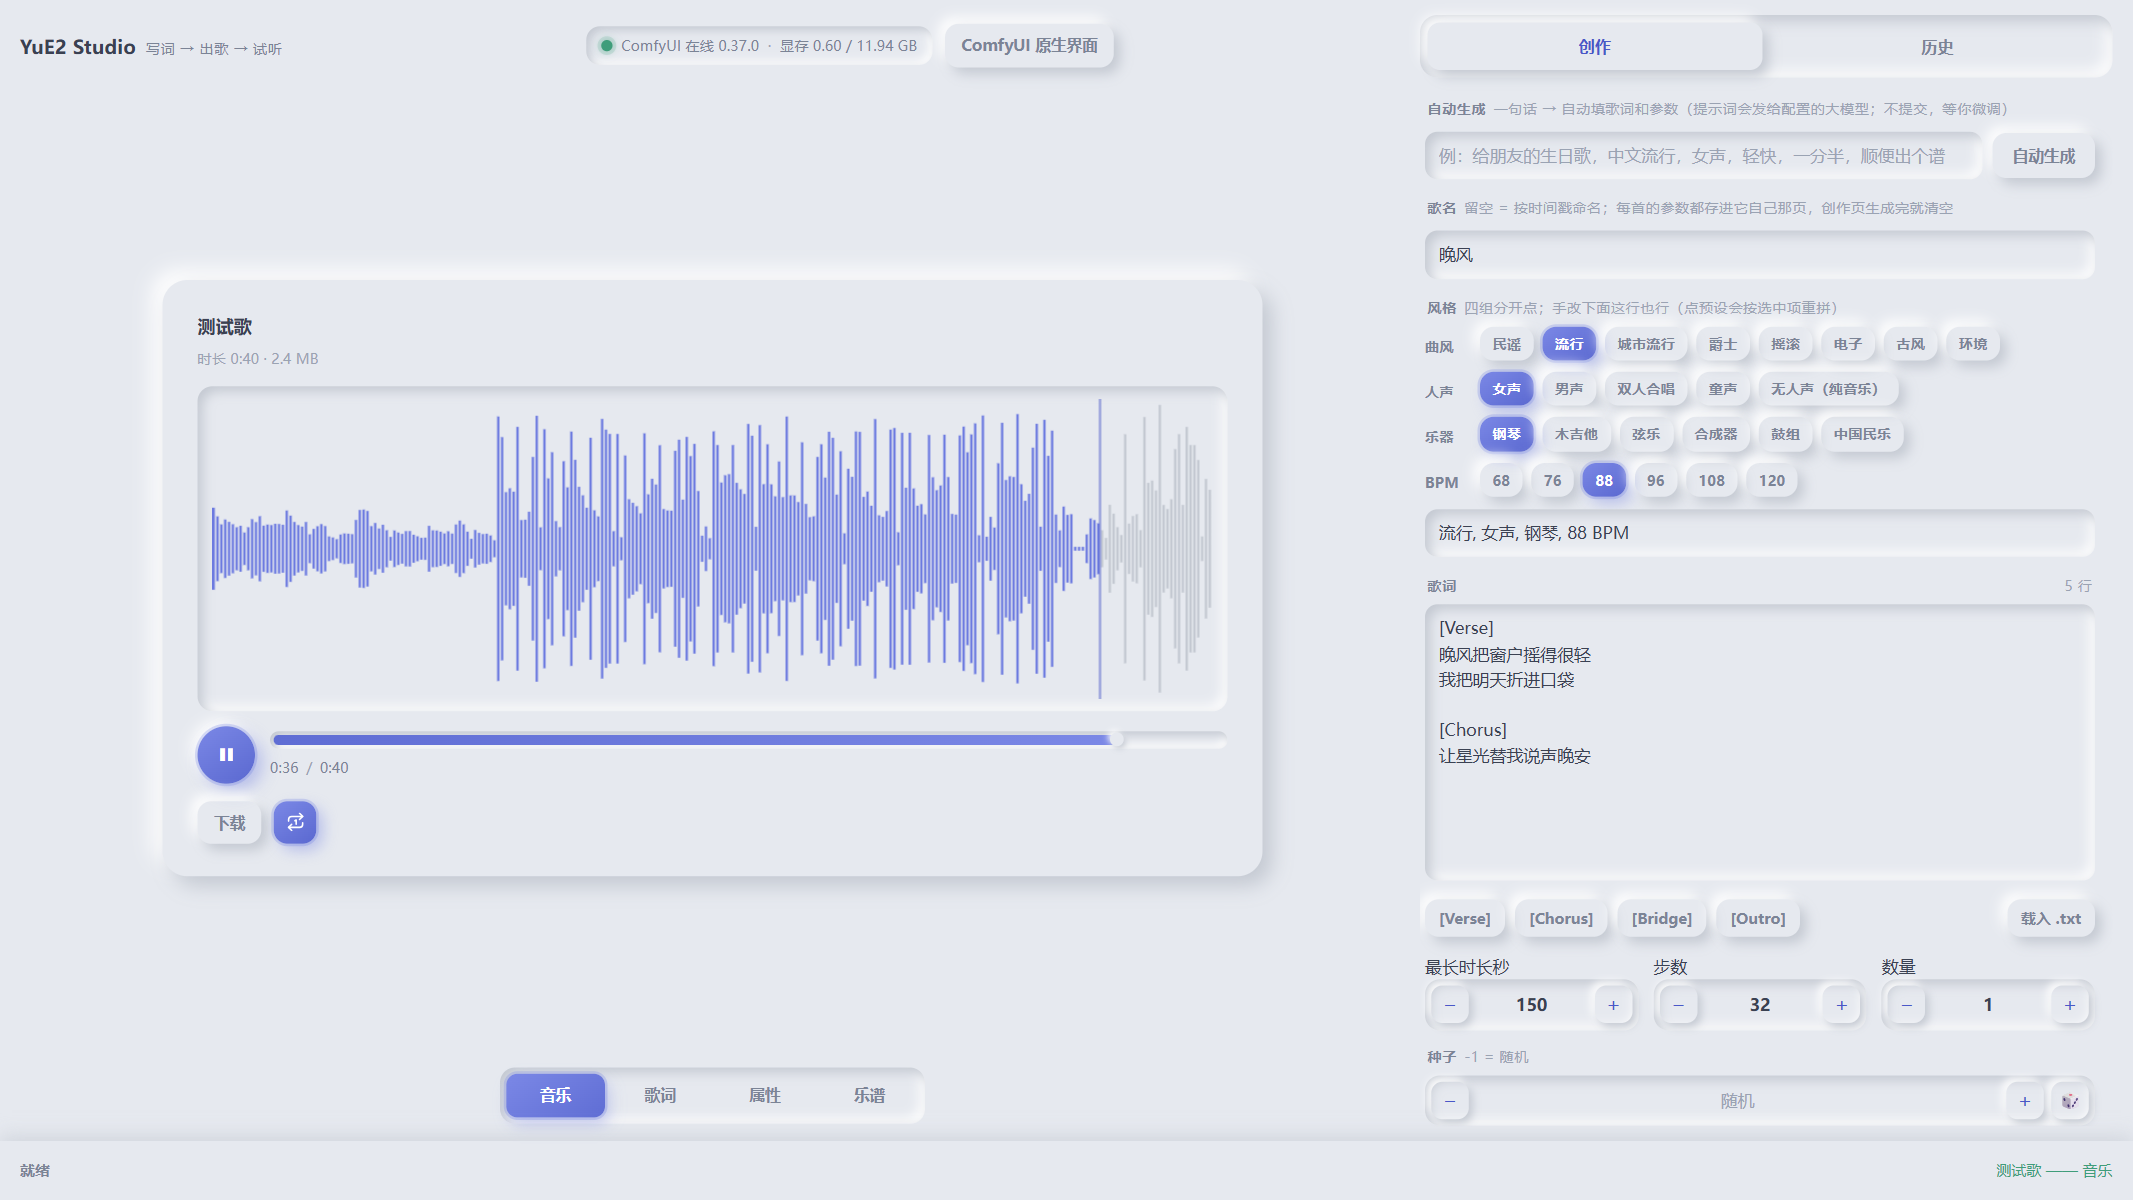
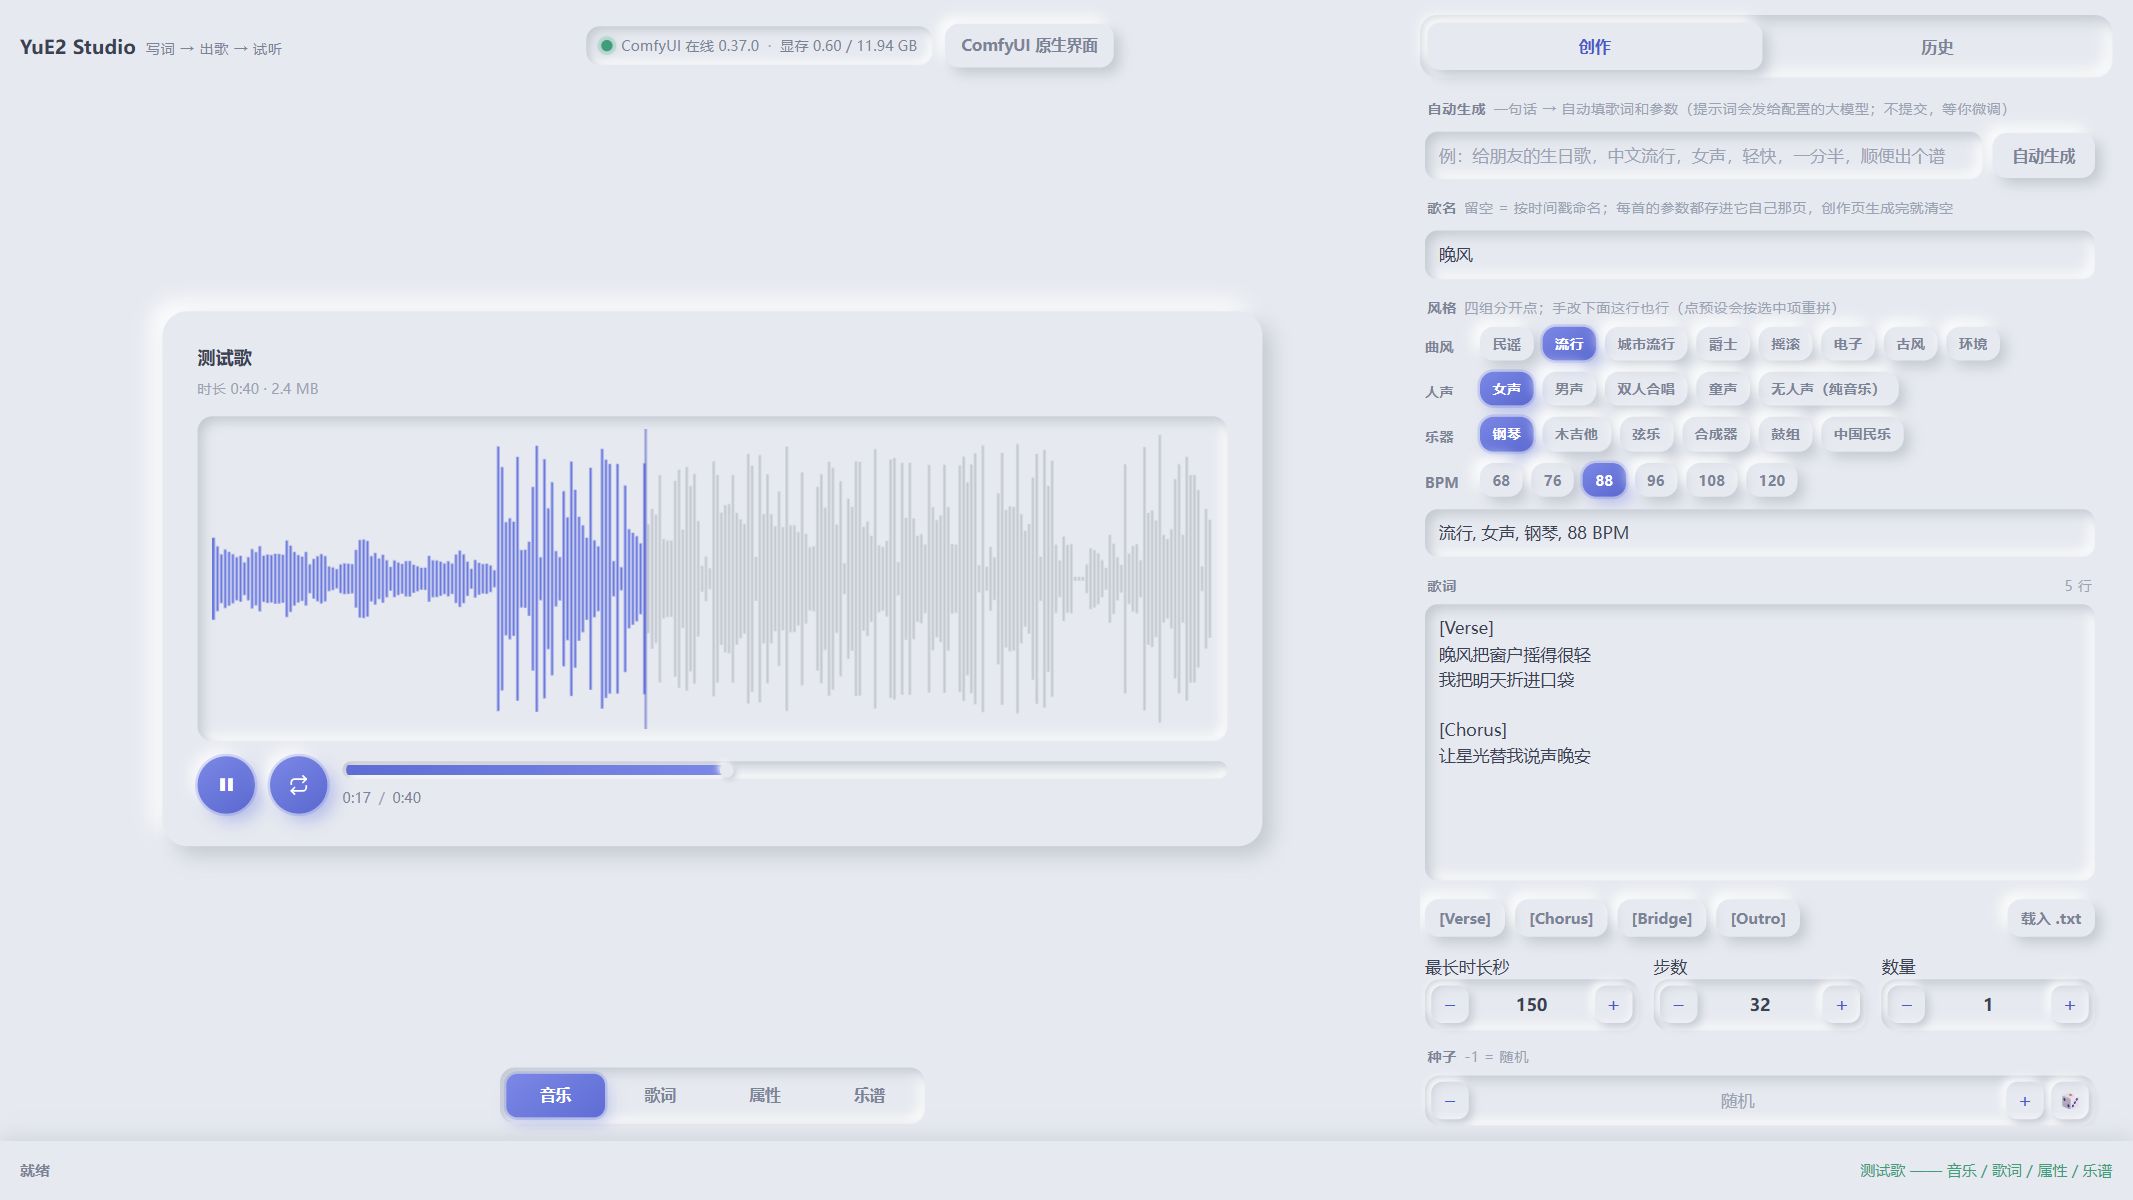
文档与截图跟上播放器三改：下载已删、三档圆形模式键、接歌不跳页
- README「音乐」条重写：圆形模式键位置/三档/图标、播完永远接、接歌不跳页
- docs/MUSIC_NOTES：播放模式段改三档并记「下载 pill 已删」的原因与接歌不跳页的实现（advanceGroup vs openGroup）
- 4 张带播放条的截图重拍（player/history/gen/autotune）：新圆钮入镜、下载 pill 消失，数据仍是中性假库

diff --git a/docs/MUSIC_NOTES.md b/docs/MUSIC_NOTES.md
@@ -156,12 +156,20 @@
 同一首的参数在「属性」页随时能翻，创作页清干净更好写下一首。）
 
 **播放台**：`fetch(/song)` → WebAudio `decodeAudioData` → 每 260 段取峰值画柱，解不出来退化成普通进度条。
-**播放模式**（2026-09-27 加，播放条 `#btnLoop` 四档轮换：关/历史循环/单曲循环/随机播放；按钮是
-**自画 inline SVG 图标** —— 关 = 循环加斜杠、历史 = 循环箭头、单曲 = 循环里带 1、随机 = 交叉箭头，
+**播放模式**（2026-09-27 加，**暂停键右边的圆形按钮** `#btnLoop`（`.pbtn`，和播放键同款）三档轮换：
+历史循环（默认）/ 单曲循环 / 随机播放 —— 按用户裁决**去掉了「循环关」档**，播完永远接着放；
+图标是**自画 inline SVG**（历史 = 循环箭头、单曲 = 循环里带 1、随机 = 交叉箭头，
 `LOOP_ICONS` 里换，档位名放 `title`/`aria-label`/状态栏）：`ended` 之后由
-`playAfterEnd()` 接管 —— 关 = 原样停（原行为）；单曲 = `currentTime=0` 重播；历史 = 按 `songs` 的**展示序**
-（新在前）取下一首、尾接头，`loadSong(下一首, {play:true})`；随机 = 从**有音频**的条目里挑一首非当前的
+`playAfterEnd()` 接管 —— 单曲 = `currentTime=0` 重播；历史 = 按 `songs` 的**展示序**
+（新在前）取下一首、尾接头（怎么接见下「接歌不跳页」）；随机 = 从**有音频**的条目里挑一首非当前的
 （列表只有一首就重播）。只有 `it.song` 非空的条目参与接歌（只出过乐谱的卡播不了，跳过）。
+**接歌不跳页**（2026-09-27 用户口径：「页面不变，但歌曲切换」—— 歌词页就还是歌词页，内容换新歌的）：
+`playAfterEnd` 走 `advanceGroup(it, play)` 而不是点卡片的 `openGroup` —— `openGroup` 会
+`showMain('music')` 强制跳页；`advanceGroup` 只做 `curStem → loadSong →（当前页是乐谱才）loadAbc
+→ loadInfo → updateSwitch → paintCurCard`，当前页对新歌没内容时由 `updateSwitch` 回落到第一页有内容的。
+实测：歌词页接歌（霓虹里的虚拟歌姬 → 你哥）歌词页保留、`lyricsBox` 换成新歌的词；
+乐谱页接歌（你哥 → 写给你的情书）`abcName` 跟着换。
+**播放条的「下载」pill 已删**（2026-09-27 用户：文件本来就在本机产物目录里，下它没有意义）。
 `<audio>` 隐藏，播放/暂停/进度/时间全自绘；点卡片载入即播放（用户手势，浏览器允许），**生成完成不自动播**。
 
 ## 进度口径（不编百分比）
